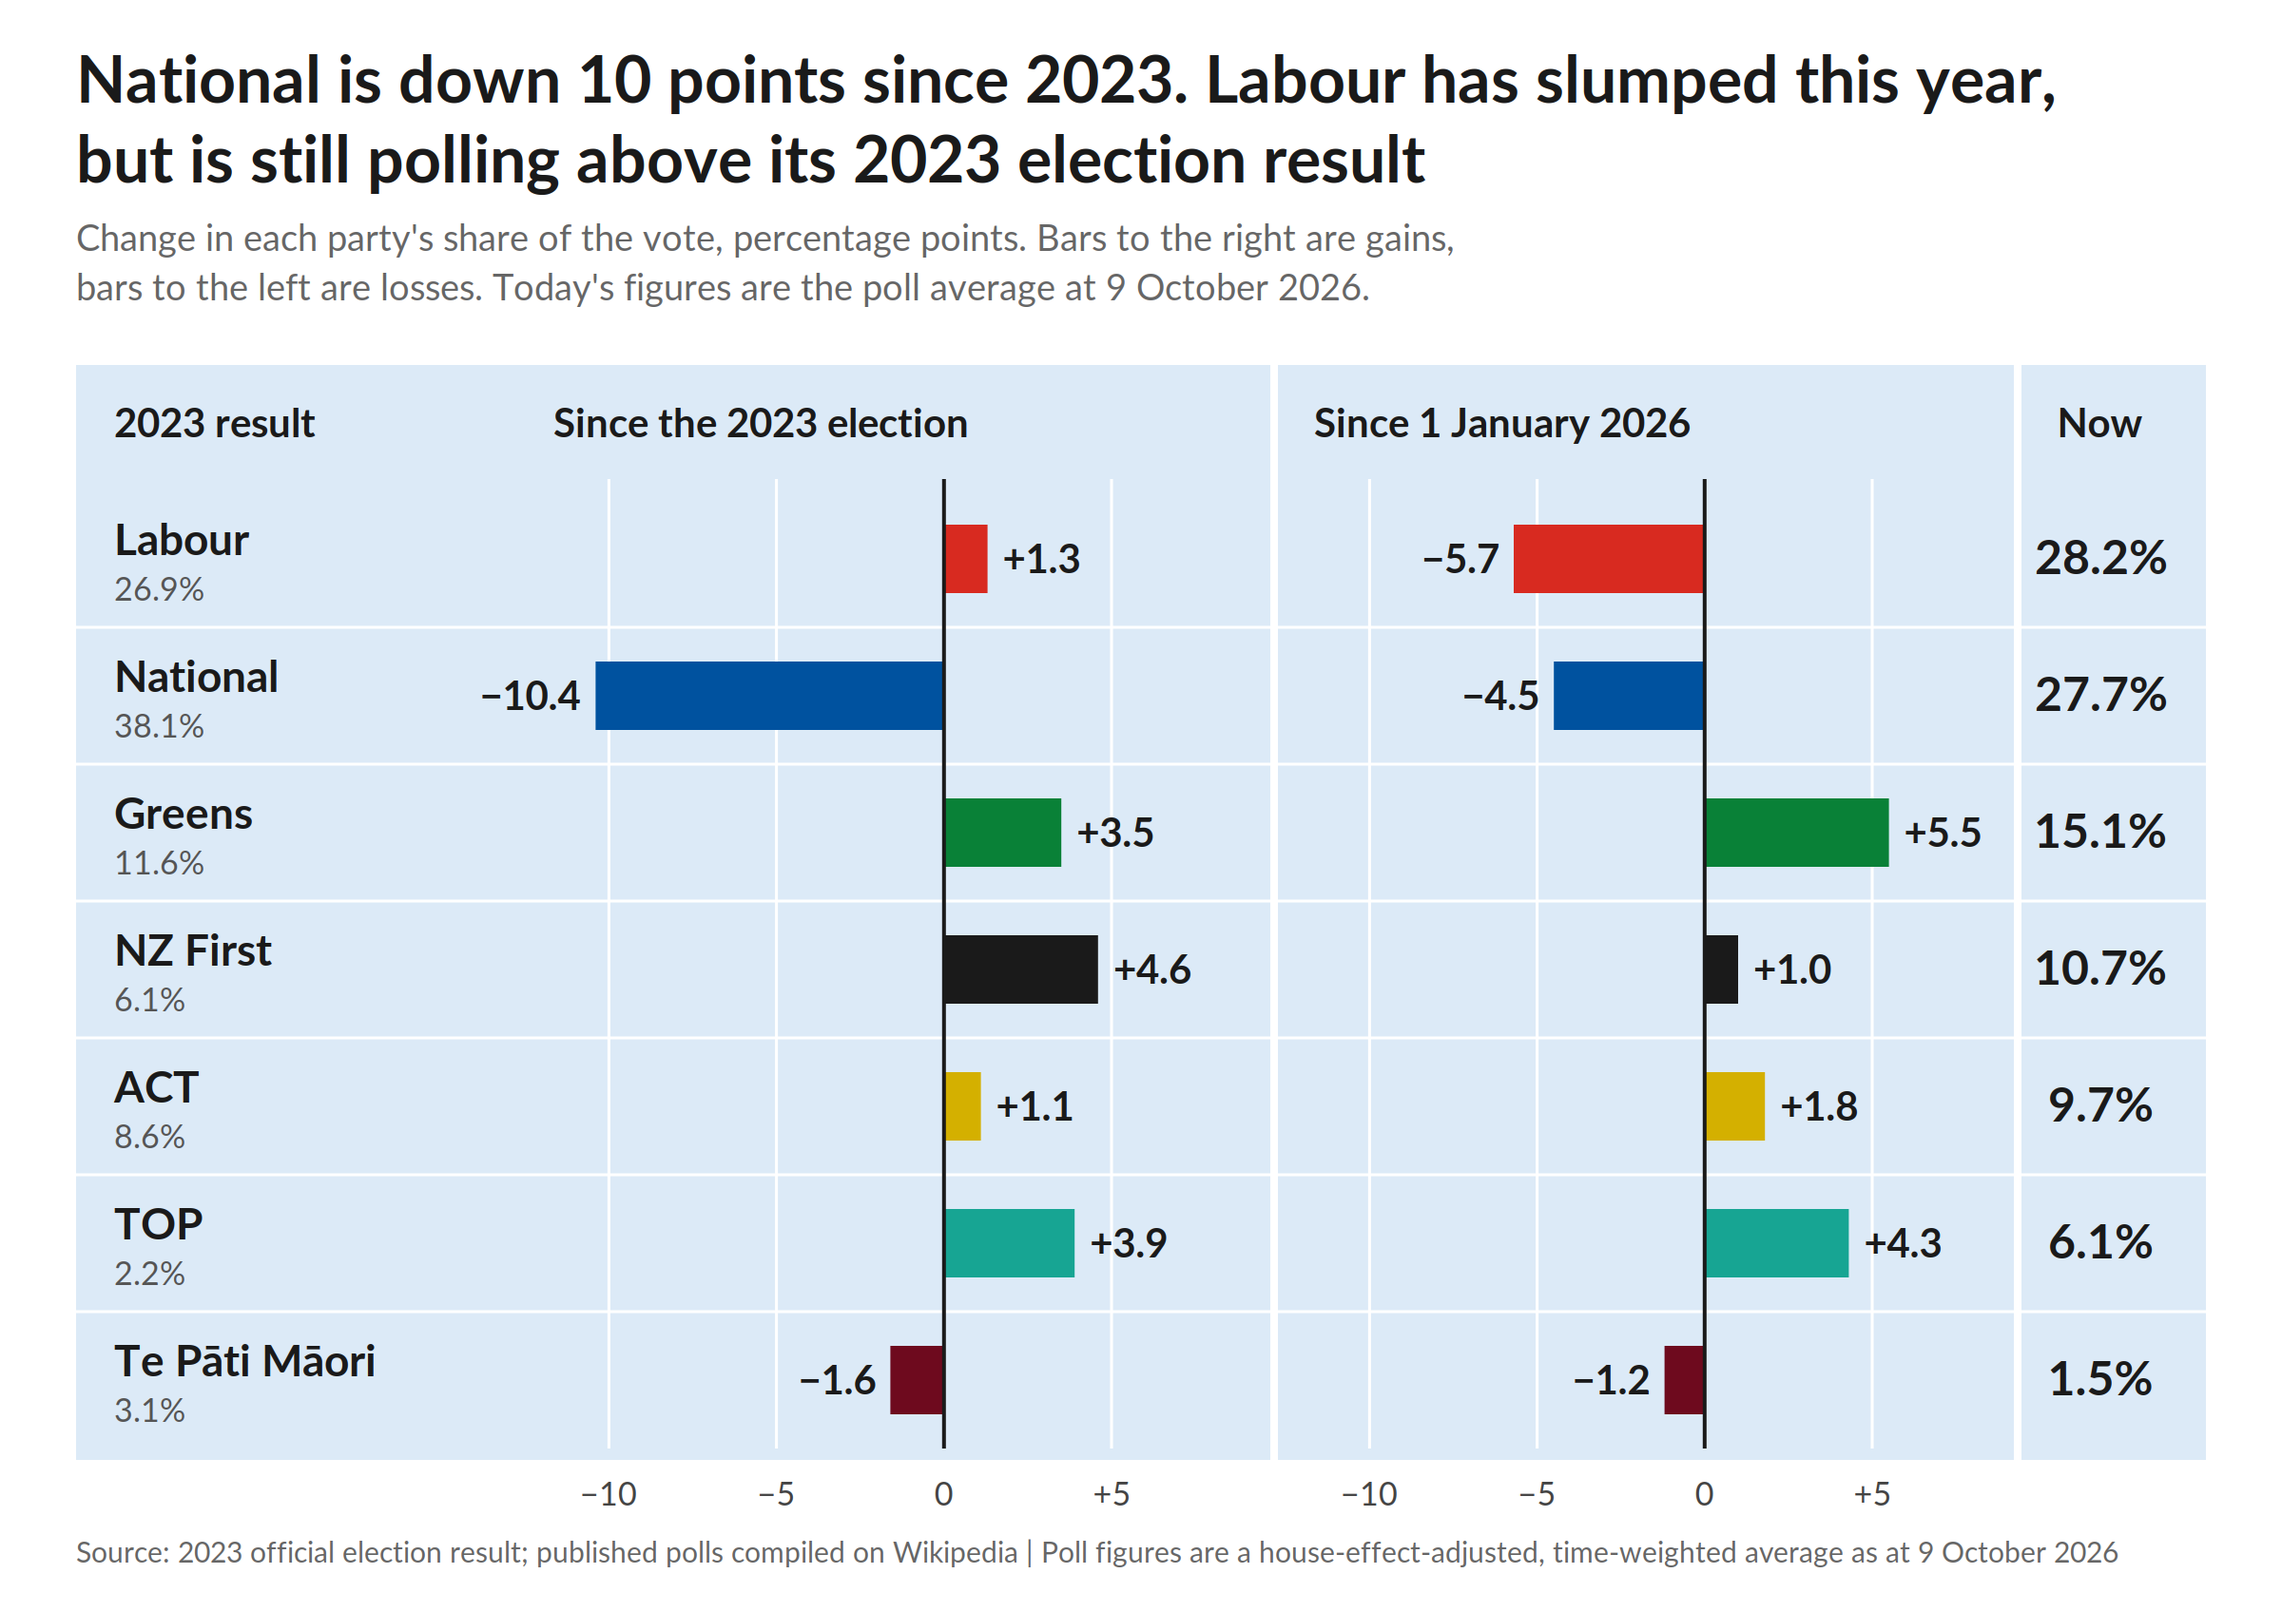
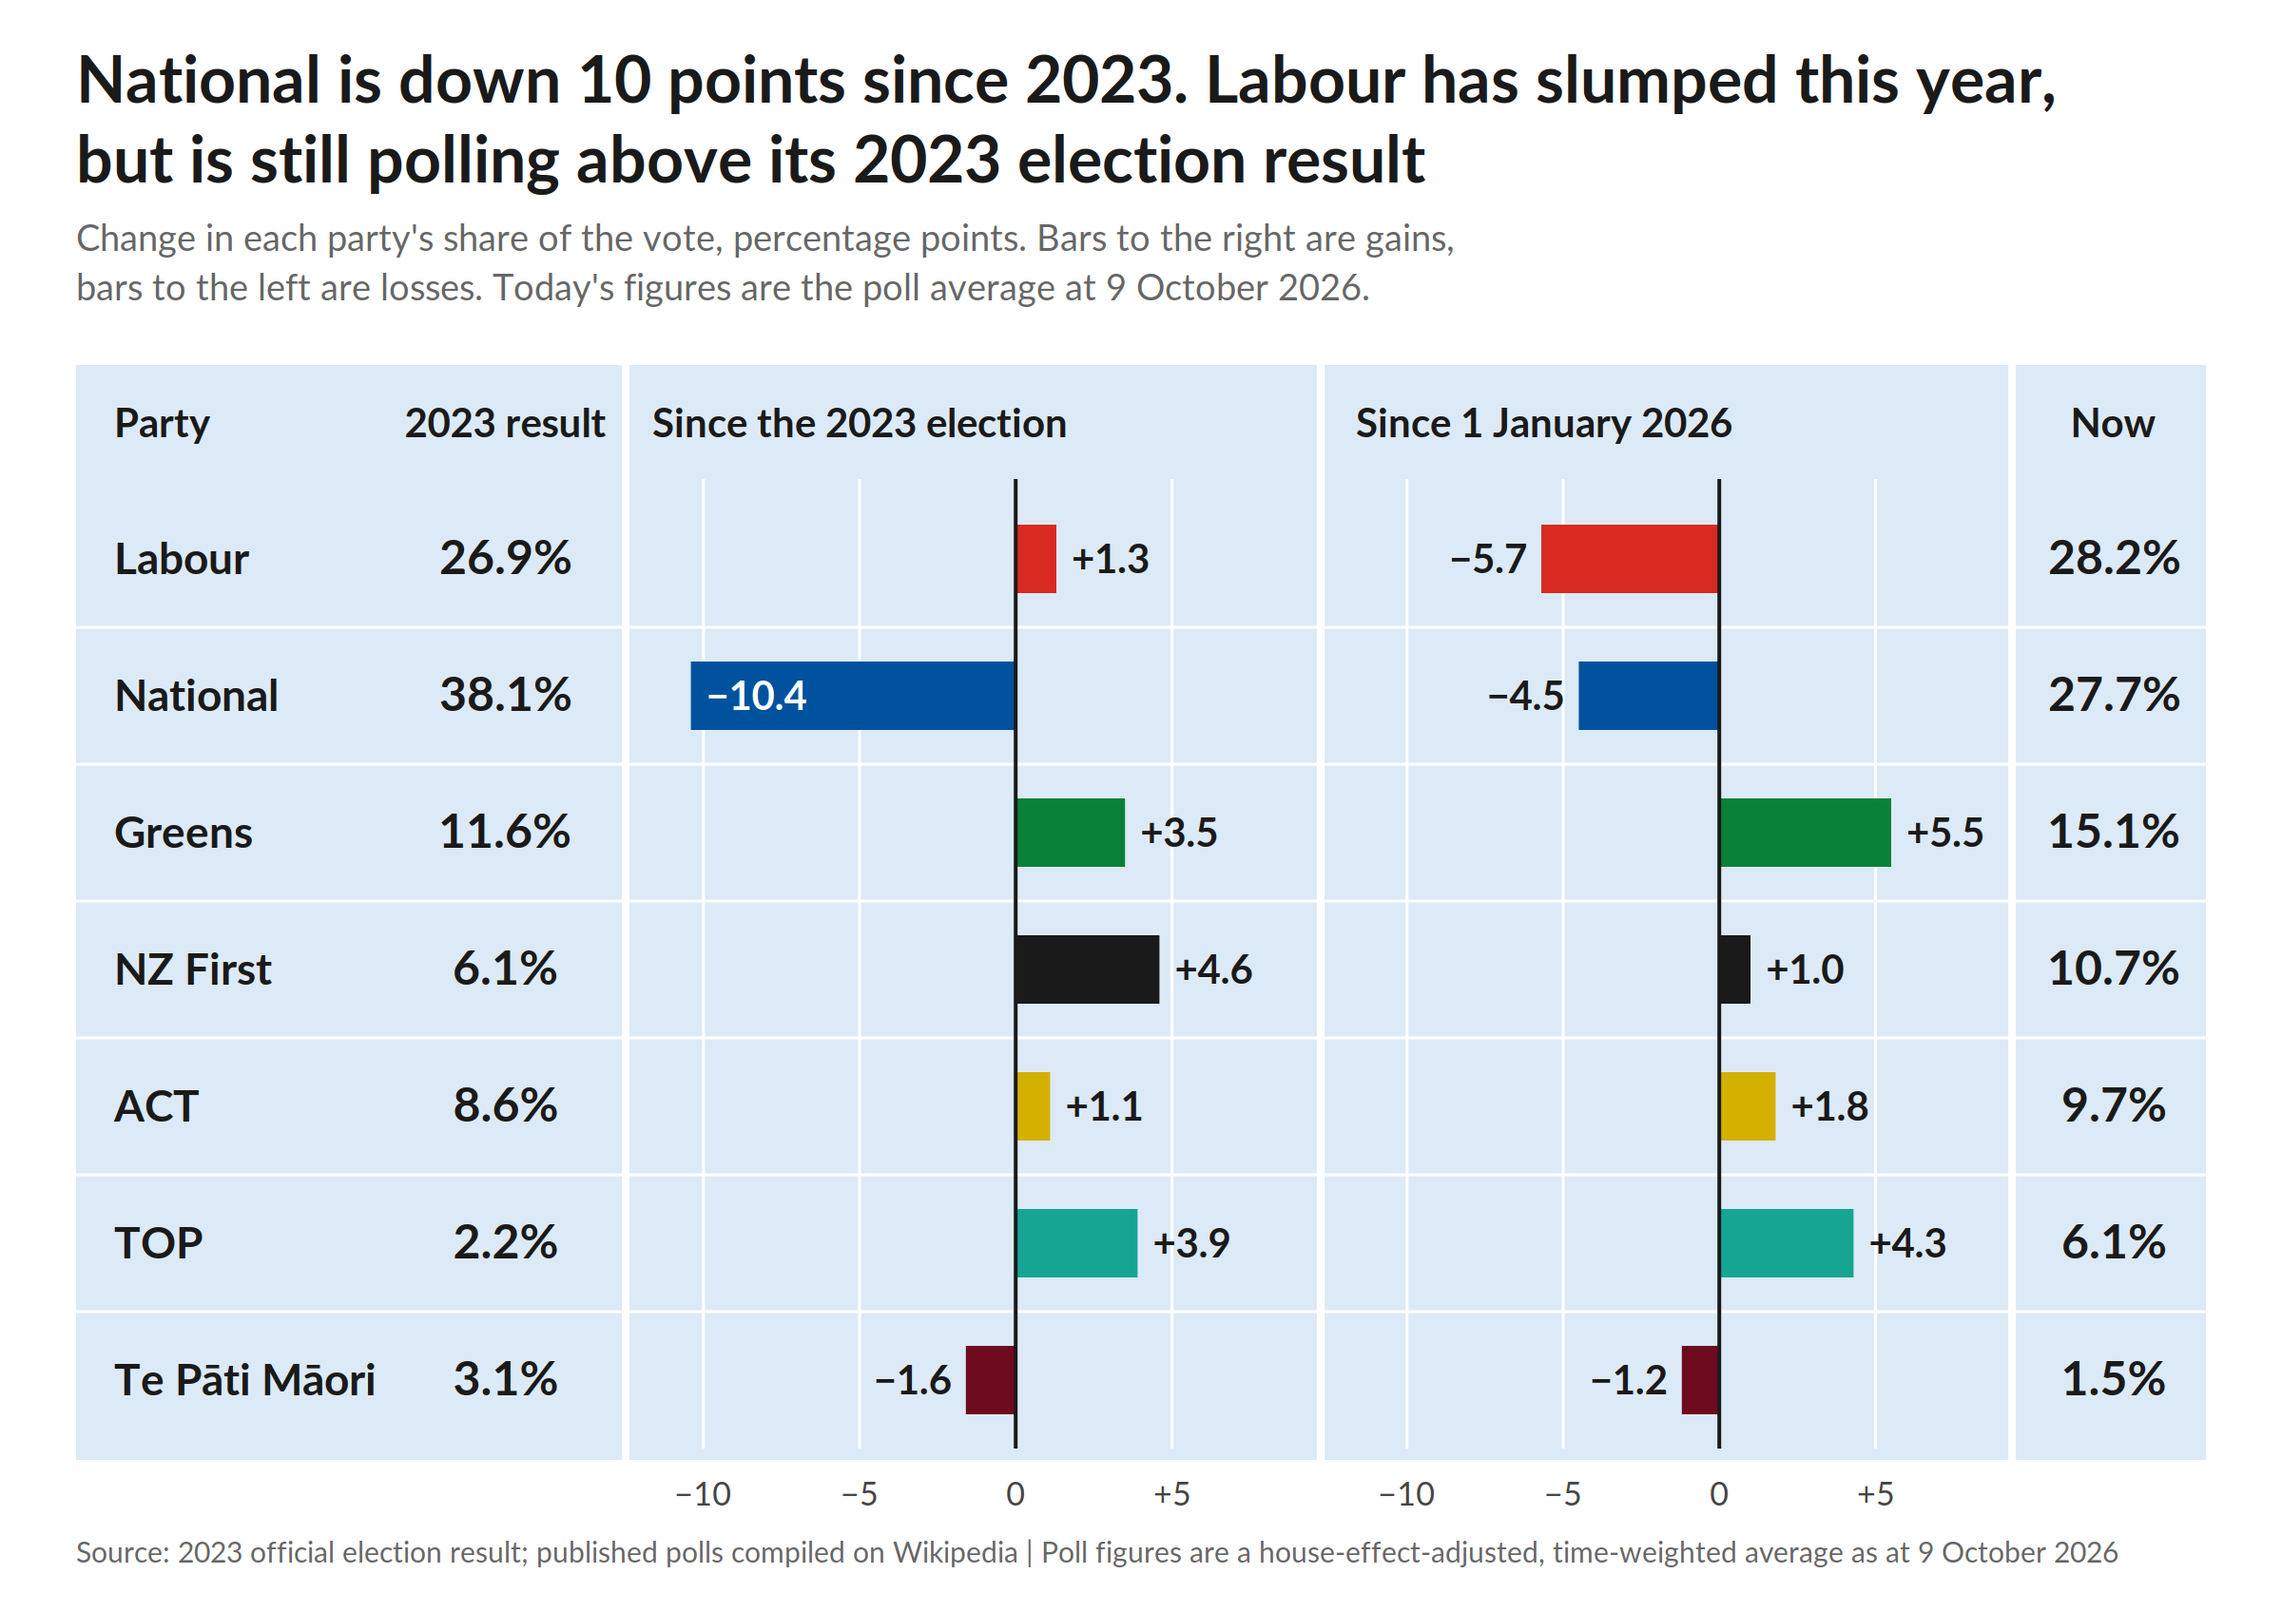
Give the 2023 result its own column on the bar chart
Party name and 2023 result are now separate columns, matching the Now
column on the right, with a white gutter before the first bar panel.
National's -10.4 label moves inside its bar in white, since there is no
longer room to its left.

diff --git a/party_change_bars.py b/party_change_bars.py
@@ -32,9 +32,10 @@ COLOURS = {
 W = 1200
 PANEL_X, PANEL_W = 40, 1120
 LO, HI = -12, 9  # shared scale, percentage points
-SUBPANELS = [(285, 370, "Since the 2023 election", "election"),
-             (685, 370, "Since 1 January 2026", "january")]
-NOW_X = 1105  # centre of the right-hand "party vote now" column
+SUBPANELS = [(337, 345, "Since the 2023 election", "election"),
+             (707, 345, "Since 1 January 2026", "january")]
+RESULT_X = 266  # centre of the "2023 result" column
+NOW_X = 1112  # centre of the right-hand "party vote now" column
 ROW_H, BAR_H = 72, 36
 
 
@@ -75,7 +76,8 @@ def build(rows, as_of):
         'Bars to the right are gains,</text>',
         f'<text class="s" x="40" y="158">bars to the left are losses. Today\'s figures are the poll average at {day}.</text>',
         f'<rect x="{PANEL_X}" y="{panel_top}" width="{PANEL_W}" height="{panel_bottom - panel_top}" fill="#dceaf7"/>',
-        f'<text class="hd" x="60" y="{panel_top + 38}">2023 result</text>',
+        f'<text class="hd" x="60" y="{panel_top + 38}">Party</text>',
+        f'<text class="hd" x="{RESULT_X}" y="{panel_top + 38}" text-anchor="middle">2023 result</text>',
         f'<text class="hd" x="{NOW_X}" y="{panel_top + 38}" text-anchor="middle">Now</text>',
     ]
 
@@ -93,10 +95,11 @@ def build(rows, as_of):
             tick = f"{v:+d}".replace("-", "−") if v else "0"
             out.append(f'<text class="ax" x="{x:.1f}" y="{panel_bottom + 24}" text-anchor="middle">{tick}</text>')
 
-    # White gutter between the two panels.
+    # White gutters separate the two panels from each other and from the number columns.
     gutter = (SUBPANELS[0][0] + SUBPANELS[0][1] + SUBPANELS[1][0]) / 2
+    result_gutter = SUBPANELS[0][0] - 8
     now_gutter = SUBPANELS[1][0] + SUBPANELS[1][1] + 6
-    for gx in (gutter, now_gutter):
+    for gx in (result_gutter, gutter, now_gutter):
         out.append(f'<line x1="{gx:.1f}" x2="{gx:.1f}" y1="{panel_top}" y2="{panel_bottom}" '
                    f'stroke="#fff" stroke-width="4"/>')
 
@@ -105,8 +108,8 @@ def build(rows, as_of):
         mid = top + ROW_H / 2
         if i:
             out.append(f'<line class="g" x1="{PANEL_X}" x2="{PANEL_X + PANEL_W}" y1="{top}" y2="{top}"/>')
-        out.append(f'<text class="p" x="60" y="{mid - 2:.0f}">{escape(LABELS.get(r["party"], r["party"]))}</text>')
-        out.append(f'<text class="lv" x="60" y="{mid + 22:.0f}">{r["election"]:.1f}%</text>')
+        out.append(f'<text class="p" x="60" y="{mid + 8:.0f}">{escape(LABELS.get(r["party"], r["party"]))}</text>')
+        out.append(f'<text class="now" x="{RESULT_X}" y="{mid + 8.5:.0f}" text-anchor="middle">{r["election"]:.1f}%</text>')
         out.append(f'<text class="now" x="{NOW_X}" y="{mid + 8.5:.0f}" text-anchor="middle">{r["now"]:.1f}%</text>')
         for x0, width, _, key in SUBPANELS:
             scale = width / (HI - LO)
@@ -117,9 +120,13 @@ def build(rows, as_of):
             left = min(zero, end)
             out.append(f'<rect x="{left:.1f}" y="{mid - BAR_H / 2:.1f}" width="{abs(end - zero):.1f}" '
                        f'height="{BAR_H}" fill="{colour}"/>')
-            label_x, anchor = (end + 8, "start") if d >= 0 else (end - 8, "end")
-            out.append(f'<text class="v" x="{label_x:.1f}" y="{mid + 7.5:.1f}" text-anchor="{anchor}">'
-                       f'{fmt_change(d)}</text>')
+            label = fmt_change(d)
+            label_x, anchor, fill = (end + 8, "start", "") if d >= 0 else (end - 8, "end", "")
+            if d < 0 and end - 8 - 12 * len(label) < x0:
+                # No room left of the bar: put the label inside it, in white.
+                label_x, anchor, fill = end + 8, "start", ' style="fill:#fff"'
+            out.append(f'<text class="v" x="{label_x:.1f}" y="{mid + 7.5:.1f}" text-anchor="{anchor}"{fill}>'
+                       f'{label}</text>')
 
     # Zero lines go last so they sit on top of the bars.
     for x0, width, *_ in SUBPANELS:
